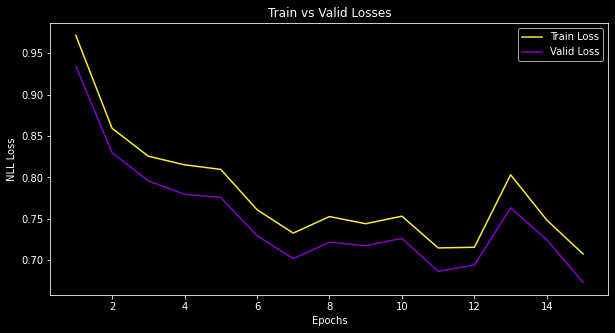
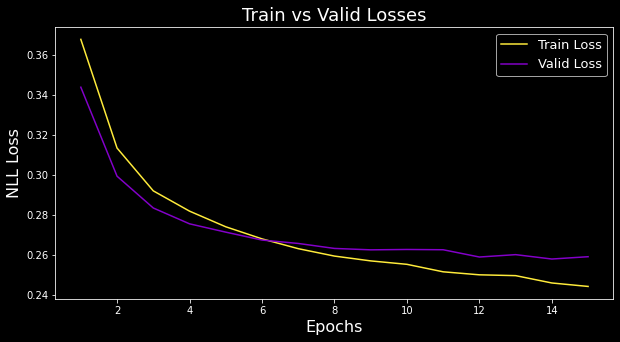
pytorch blogpost update

diff --git a/_posts/2020-10-01-PyTorch-Mnist.md b/_posts/2020-10-01-PyTorch-Mnist.md
@@ -5,18 +5,6 @@ subtitle: MNIST classification
 thumbnail-img: assets/img/pytorch.png
 comments: false
 ---
-<!-- MathJAx Import -->
-$$\newcommand{\abs}[1]{\left\lvert#1\right\rvert}$$
-$$\newcommand{\norm}[1]{\left\lVert#1\right\rVert}$$
-$$\newcommand{\inner}[1]{\left\langle#1\right\rangle}$$
-$$\newcommand{\as}{\overset{a.s.}{\to}}$$
-$$\newcommand{\d}{\overset{d}{\to}}$$
-$$\DeclareMathOperator*{\argmin}{arg\,min}$$
-$$\DeclareMathOperator*{\argmax}{arg\,max}$$
-$$\DeclareMathOperator*{\E}{\mathbb{E}}$$
-<!-- MathJAx End -->
-<p style="margin-bottom:-2cm;"></p>
-
 <style>
 .dropcap {
   margin: 5px 7px -30px 0;
@@ -24,7 +12,6 @@ $$\DeclareMathOperator*{\E}{\mathbb{E}}$$
 </style>
 
 ## Import MNIST
-
 Let's download $7000$ examples of length $784 = 28\times 28$ of flattened grayscale square images of handwritten digits, stacked as 
  a tuple of $(X,Y)$ with Python shapes $(70000, 784)$ and $(70000,).$
 ```python
@@ -54,6 +41,8 @@ Some technical steps
 1. Convert the data to "torch tensors"
 2. Form a DataLoader (to simplify the iteration process over batches)
 
+Notice that no shuffling is required for the validation data
+
 ```python
 import torch
 x_train, y_train, x_valid, y_valid = map(torch.tensor,
@@ -61,20 +50,22 @@ x_train, y_train, x_valid, y_valid = map(torch.tensor,
 
 from torch.utils.data import TensorDataset
 train_ds = TensorDataset(x_train, y_train) 
+valid_ds = TensorDataset(x_valid, y_valid)
 
 from torch.utils.data import DataLoader
 train_dl = DataLoader(train_ds, batch_size=64, shuffle=True)
+valid_dl = DataLoader(valid_ds, batch_size=128)
 ```
 <span style="display:block; height: 0px;"></span>
 
 ## Model, Optimizer & Loss
-Lets design the NN architecture by subclassing {% ihighlight python %} nn.Module {% endihighlight %}, which manages the network parameters/weights, their gradients, etc. Create a simple linear layer {% ihighlight python %} self.lin = nn.Linear(784, 10) {% endihighlight %} which implicitly is equivalent to creating a $784\times 10$ matrix of weights and a $10$-dim bias vector
+Lets design the NN architecture by subclassing <code class="in"> nn.Module </code>, which manages the network parameters/weights, their gradients, etc. Create a simple linear layer <code class="in"> self.lin = nn.Linear(784, 10) </code> which implicitly is equivalent to creating a $784\times 10$ matrix of weights and a $10$-dim bias vector
 
 ```python
 self.weights = nn.Parameter(torch.randn(784, 10) / math.sqrt(784))
 self.bias = nn.Parameter(torch.zeros(10))
 ```
-Both parameters are initially random, Xavier initialized, but need to be determined eventually. For now, let's not add any nonlinearities. Also incorporate the forward step, which will multiply the input by the matrix and add the bias, {% ihighlight python %}  xb @ self.weights + self.bias {% endihighlight %}. Hence we have
+Both parameters are initially random, Xavier initialized, but need to be determined eventually. For now, let's not add any nonlinearities. Also incorporate the forward step, which will multiply the input by the matrix and add the bias, <code class="in">  xb @ self.weights + self.bias </code>. Hence we have
 
 ```python
 from torch import nn
@@ -89,14 +80,14 @@ class FeedForward(nn.Module):
 model = FeedForward()
 ```
 
-Specify the optimizer and the learning rate.
+Pick the optimizer and the learning rate.
 
 ```python
 from torch import optim
-opt = optim.Adam(model.parameters(), lr=.1)
+opt = optim.Adam(model.parameters(), lr=.001)
 ```
 
-Specify the loss; {% ihighlight python %} F.cross_entropy {% endihighlight %} combines negative log likelihood loss and log softmax activation and works well for classification purposes.
+Specify the loss. <code class="in"> F.cross_entropy </code> combines negative log likelihood loss and log softmax activation and works well for classification purposes.
 
 ```python
 import torch.nn.functional as F
@@ -105,18 +96,17 @@ loss_func = F.cross_entropy
 <span style="display:block; height: 0px;"></span>
 
 ## Training
-Iterate over all training images $5$ times, each time sampling batches from {% ihighlight python %}DataLoader{% endihighlight %}. 
+Iterate over all training images $15$ times, each time sampling batches from <code class="in">DataLoader</code>. 
 For each batch, 
-1. Make a prediction {% ihighlight python %}model(xb){% endihighlight %}, which propagates {% ihighlight python %}xb{% endihighlight %} forward.
-2. Compute the loss {% ihighlight python %}loss_func(pred, yb){% endihighlight %}
+1. Make a prediction <code class="in">model(xb)</code>, which propagates <code class="in">xb</code> forward.
+2. Compute the loss <code class="in">loss_func(pred, yb)</code>
 3. Propagate backwards:
   - Update the gradients 
-  - Optimize the weights, i.e. for each parameter {% ihighlight python %}p{% endihighlight %} do {% ihighlight python %} p -= p.grad * lr {% endihighlight %}
-  - Reset the gradient back to $0$ so it is ready for the next batch.
+  - Optimize the weights, i.e. for each parameter <code class="in">p</code> do <code class="in"> p -= p.grad * lr </code>
+  - Reset the gradient back to $0$ so it is ready for the next batch
 
-Watch the training loss go down!
 ```python
-for epoch in range(5):
+for epoch in range(15):
   for xb, yb in train_dl:       
     pred = model(xb)
     loss = loss_func(pred, yb) # pred.dtype=torch.float32, yb.dtype=torch.int64
@@ -129,17 +119,10 @@ for epoch in range(5):
 <span style="display:block; height: 0px;"></span>
 
 ## Validation
-To keep track of the training loss instead, first use the DataLoader (no shuffling required)
+Easy to check the validation loss too (the lines <code class="in">model.train()</code> and <code class="in">model.eval()</code> ensure appropriate behavior in more complex cases)
 
 ```python
-valid_ds = TensorDataset(x_valid, y_valid)
-valid_dl = DataLoader(valid_ds, batch_size=128)
-```
-
-and then print the validation loss (the lines {% ihighlight python %}model.train(){% endihighlight %} and {% ihighlight python %}model.eval(){% endihighlight %} ensure appropriate behavior in more complex cases)
-
-```python
-for epoch in range(10):
+for epoch in range(15):
     model.train()   # NEW
     for xb, yb in train_dl:       
         pred = model(xb)
@@ -152,11 +135,11 @@ for epoch in range(10):
     # Validation
     model.eval()  # NEW
     with torch.no_grad(): 
-        valid_loss = sum(loss_func(model(xb), yb) for xb, yb in valid_dl)
-
-    print(epoch, valid_loss / len(valid_dl))
+        valid_loss = sum(loss_func(model(xb), yb).tolist() for xb, yb 
+                         in valid_dl)/ len(valid_dl)
 ```
-<center><p><img src="/assets/img/mnist_loss.png" alt="Profile pic" style="width:500px;border:0px solid black" data-toggle="tooltip" data-placement="auto" title="Losses over Epochs"></p></center>
+Can also plot both losses over epochs
+<center><p><img src="/assets/img/mnist_loss.png" alt="Profile pic" style="width:100%;border:0px solid black" data-toggle="tooltip" data-placement="auto" title="Losses over Epochs"></p></center>
 <span style="display:block; height: 0px;"></span>
 
 ## Make a prediction
@@ -170,24 +153,21 @@ for i in range(0, cols*rows):
   fig.add_subplot(rows, cols, i+1)
   plt.imshow(x_valid[i].reshape((28, 28)), cmap="gray") # True
 plt.show()
-torch.argmax(model(x_valid[0:9]), axis=1).reshape(3,3)  # Pred
-```
-
-<center><p><img src="/assets/img/mnist_test.png" alt="Profile pic" style="width:200px;border:0px solid black" data-toggle="tooltip" data-placement="auto"></p></center>
-
-and compare with predictions
-
-```python
-tensor([[3, 8, 6],
-        [9, 6, 4],
-        [5, 3, 8]])
+print(torch.argmax(model(x_valid[0:9]), axis=1).reshape(3,3))  # Pred
 ```
 <span style="display:block; height: 0px;"></span>
+
+<center>
+<img src="/assets/img/mnist_test.png" alt="Profile pic" style="width:150px;" data-toggle="tooltip" data-placement="auto"> <a style="padding: 2rem;">vs</a>  $\begin{matrix} [3, 8, 6]\\ [9, 6, 4]\\ [5, 3, 8] \end{matrix}$ <span style="padding: 1rem;"></span>
+</center>
+
+
+
 
 # CNN
 
 Can use a Convolutional NN instead. Our inputs are $28\times 28\times 1$, where $1$ is the # of channels (only gray). 
-The first two arguments of {% ihighlight python %}Conv2d{% endihighlight %} are {% ihighlight python %}in_channels=1{% endihighlight %} and {% ihighlight python %}out_channels=16{% endihighlight %}. 
+The first two arguments of <code class="in">Conv2d</code> are <code class="in">in_channels=1</code> and <code class="in">out_channels=16</code>. 
 
 A useful formula for keeping track of dimensions is 
 
@@ -195,10 +175,10 @@ $$n_{out} = \frac{n_{in} - k + 2p}{s} + 1$$
 
 where $n$ is image's spatial dimension (height or weight).
 
-- {% ihighlight python %}Conv2d(1,16,3,2,1){% endihighlight %}: &nbsp; &nbsp;28x28x1 &nbsp; <i class="fas fa-arrow-alt-circle-right"></i> &nbsp;(28-3+2)/2+1 = 14.5&nbsp;  <i class="fas fa-arrow-alt-circle-right"></i>&nbsp; 14x14x16
-- {% ihighlight python %}Conv2d(16,16,3,2,1){% endihighlight %}: &nbsp; 14x14x16 &nbsp; <i class="fas fa-arrow-alt-circle-right"></i> &nbsp;(14-3+2)/2+1 = 7.5&nbsp;  <i class="fas fa-arrow-alt-circle-right"></i>&nbsp; 7x7x16
-- {% ihighlight python %}Conv2d(16,10,3,2,1){% endihighlight %}: &nbsp; 7x7x16 &nbsp; <i class="fas fa-arrow-alt-circle-right"></i> &nbsp;(7-3+2)/2+1 = 4&nbsp;  <i class="fas fa-arrow-alt-circle-right"></i>&nbsp; 4x4x10
-- {% ihighlight python %}avg_pool2d(xb,4){% endihighlight %}: &nbsp; &nbsp; &nbsp; 4x4x10 &nbsp; <i class="fas fa-arrow-alt-circle-right"></i> &nbsp;1x10
+- <code class="in">Conv2d(1,16,3,2,1)</code>: &nbsp; &nbsp;28x28x1 &nbsp; <i class="fas fa-arrow-alt-circle-right"></i> &nbsp;(28-3+2)/2+1 = 14.5&nbsp;  <i class="fas fa-arrow-alt-circle-right"></i>&nbsp; 14x14x16
+- <code class="in">Conv2d(16,16,3,2,1)</code>: &nbsp; 14x14x16 &nbsp; <i class="fas fa-arrow-alt-circle-right"></i> &nbsp;(14-3+2)/2+1 = 7.5&nbsp;  <i class="fas fa-arrow-alt-circle-right"></i>&nbsp; 7x7x16
+- <code class="in">Conv2d(16,10,3,2,1)</code>: &nbsp; 7x7x16 &nbsp; <i class="fas fa-arrow-alt-circle-right"></i> &nbsp;(7-3+2)/2+1 = 4&nbsp;  <i class="fas fa-arrow-alt-circle-right"></i>&nbsp; 4x4x10
+- <code class="in">avg_pool2d(xb,4)</code>: &nbsp; &nbsp; &nbsp; 4x4x10 &nbsp; <i class="fas fa-arrow-alt-circle-right"></i> &nbsp;1x10
 
 ```python
 class CNN(nn.Module):
@@ -218,7 +198,7 @@ class CNN(nn.Module):
 
 model = CNN()
 ```
-<span style="display:block; height: 0px;"></span>
+<span style="display:block; height: 1rem;"></span>
 
 # <i class="fas fa-code"></i> Full Code for CNN
 ```python
@@ -268,14 +248,14 @@ model = CNN()
 
 # Optimizer
 from torch import optim
-opt = optim.Adam(model.parameters(), lr=.05)
+opt = optim.Adam(model.parameters(), lr=.001)
 
 # Loss
 import torch.nn.functional as F
 loss_func = F.cross_entropy 
 
 # Training
-for epoch in range(10):
+for epoch in range(15):
     model.train()   
     for xb, yb in train_dl:       
         pred = model(xb)
@@ -288,9 +268,9 @@ for epoch in range(10):
     # Validation
     model.eval()  
     with torch.no_grad(): 
-        valid_loss = sum(loss_func(model(xb), yb) for xb, yb in valid_dl)
-
-    print(epoch, valid_loss / len(valid_dl))
+        valid_loss = sum(loss_func(model(xb), yb).tolist() for xb, yb 
+                         in valid_dl)/ len(valid_dl)
+    print(epoch, valid_loss)
 
 # True vs Pred
 fig = plt.figure(figsize=(3, 3))
@@ -299,6 +279,6 @@ for i in range(0, cols*rows):
   fig.add_subplot(rows, cols, i+1)
   plt.imshow(x_valid[i].reshape((28, 28)), cmap="gray") # True
 plt.show()
-torch.argmax(model(x_valid[0:9]), axis=1).reshape(3,3)  # Pred
+print(torch.argmax(model(x_valid[0:9]), axis=1).reshape(3,3))  # Pred
 ```
 
